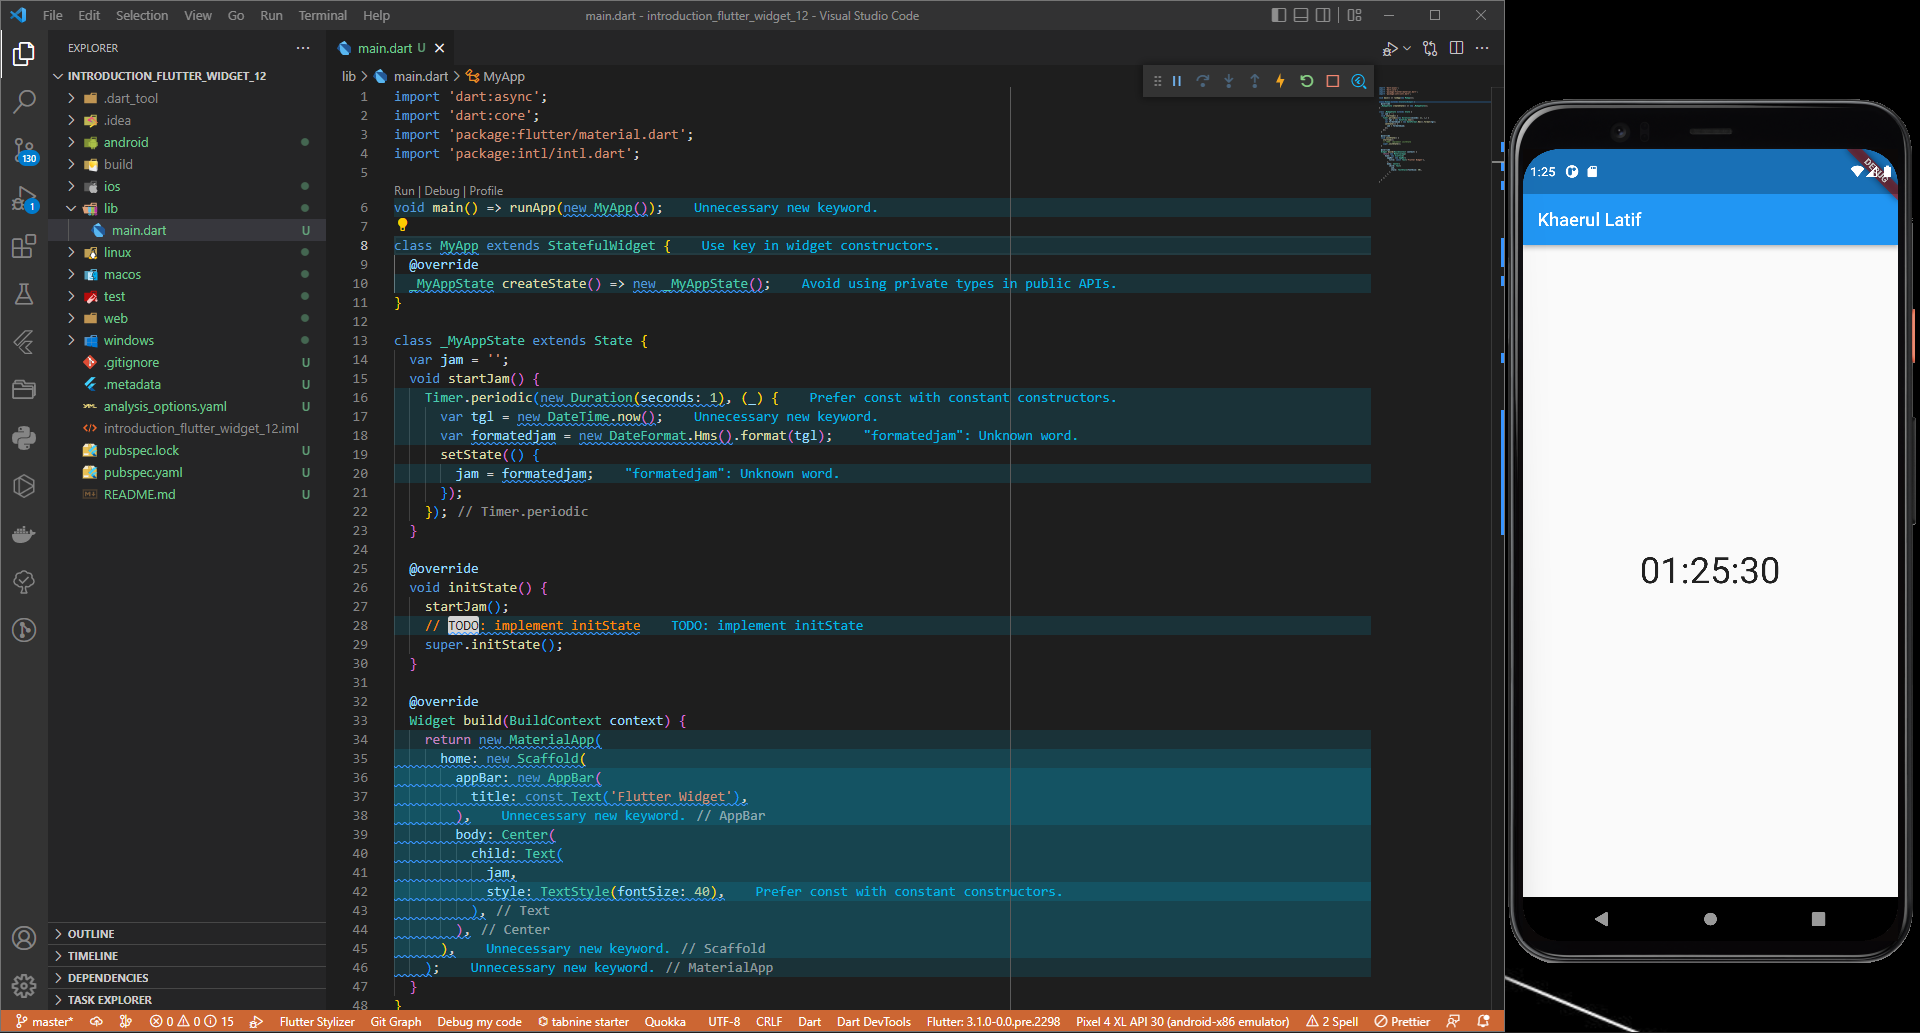
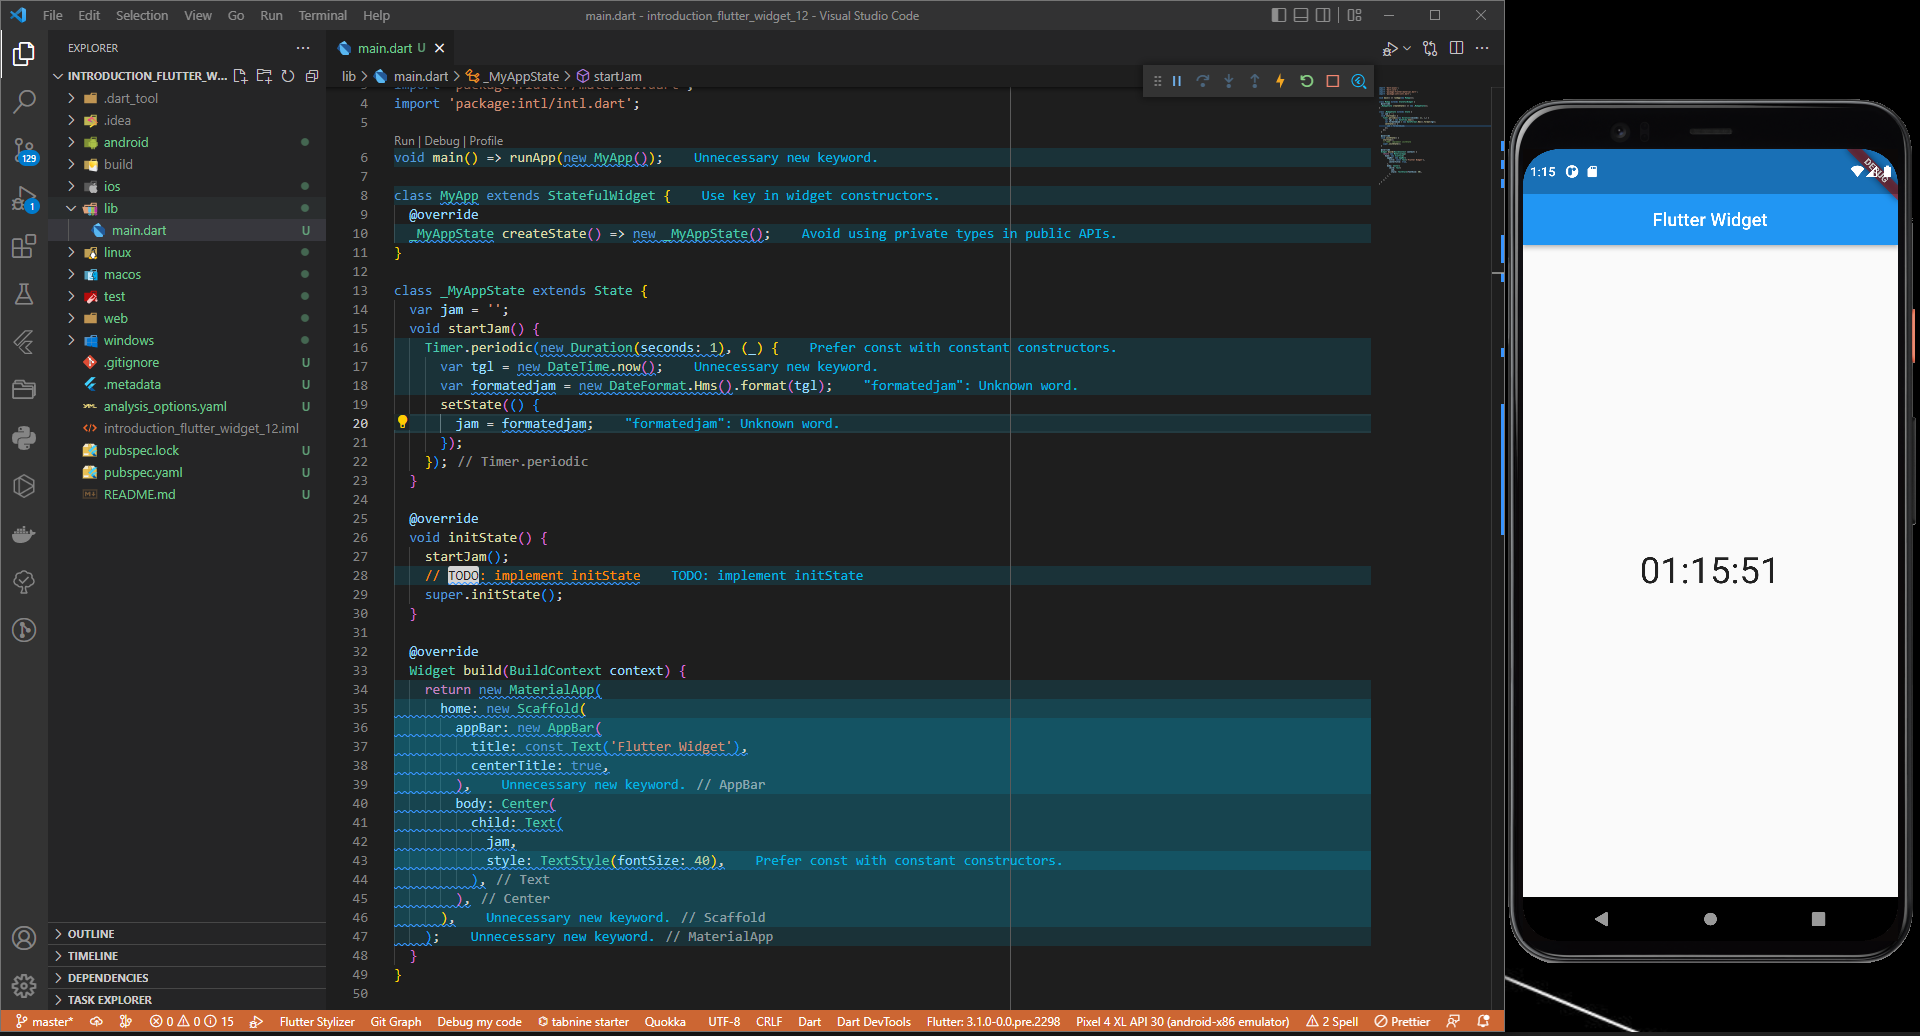
input assignment session 12

diff --git a/12_Introduction Flutter Widget/praktikum/tasks/introduction_flutter_widget_12/lib/main.dart b/12_Introduction Flutter Widget/praktikum/tasks/introduction_flutter_widget_12/lib/main.dart
@@ -34,7 +34,7 @@ class _MyAppState extends State {
     return new MaterialApp(
       home: new Scaffold(
         appBar: new AppBar(
-          title: const Text('Flutter Widget'),
+          title: const Text('Flutter Widget')
         ),
         body: Center(
           child: Text(

diff --git a/12_Introduction Flutter Widget/praktikum/readme.md.md b/12_Introduction Flutter Widget/praktikum/readme.md.md
@@ -1,28 +1,47 @@
-# (09) Collection
+# (12) Introduction Flutter Widget
 ## Data diri 
 Nomor Peserta  : 1_013FLB_50  <br />
 Nama : Khaerul Latif
 
 ## Summary 
-Section 9 ini saya belajar tentang Collection, diantaranya:
-1. List digunakan untuk menyimpan banyak data. Data pada List disusun secara berurutan dan diakses menggunakan index.
-2. Set digunakan untuk menyimpan banyak data secara unik, tidak ada duplikasi, tidak berurutan, dan tidak diindeks.
-3. Map menyimpan banyak data dengan format pasangan key-value
+Section 12 ini saya belajar tentang Introduction Flutter Widget, diantaranya:
+1. Flutter adalah framework yang di buat oleh google untuk mengembangkan antarmuka pengguna dalam membuat aplikasi mobile,desktop dan web
+2. Widget adalah komponen untuk membentuk antarmuka / UI aplikasi, bisa di katakan sebagai blueprint 
+3. Built in widget adalah widget yang dapat langsung digunakan / widget bawaan dari flutter itu sendiri
 
 ## Task
 ### Task 01
-1. Membuat sebuah fungsi dengan spesifikasi berikut:
-- menerima 2 parameter, yaitu list data dan pengali, 
-- lakukan perulangan pada list data secara asynchronous, 
-- tiap perulangan, kalikan elemen list data dengan pengali, 
-- return list baru yang berisi hasil proses di atas.
-
-![imgTask01](screenshoot/task01.png)
+Membuat statefull widget yang kontennya dapat berubah tiap detik.
+```dart
+void startJam() {
+    Timer.periodic(new Duration(seconds: 1), (_) {
+      var tgl = new DateTime.now();
+      var formatedjam = new DateFormat.Hms().format(tgl);
+      setState(() {
+        jam = formatedjam;
+      });
+    });
+  }
+```
 
 ### Task 02
-2. Membuat sebuah list dengan spesifikasi berikut & Membuat sebuah Map dengan menggunakan list tersebut!:
-- tiap element-nya berupa list juga, 
-- tiap element wajib terdapat 2 data (sub-element). 
+Memisahkan menjadi beberapa widget tanpa mengubah tampilannya. 
 
-![imgTask02](screenshoot/task02.png)
-
+```dart
+@override
+  Widget build(BuildContext context) {
+    return new MaterialApp(
+      home: new Scaffold(
+        appBar: new AppBar(
+          title: const Text('Flutter Widget'),
+        ),
+        body: Center(
+          child: Text(
+            jam,
+            style: TextStyle(fontSize: 40),
+          ),
+        ),
+      ),
+    );
+  }
+```

diff --git a/12_Introduction Flutter Widget/summary.md b/12_Introduction Flutter Widget/summary.md
@@ -1,28 +1,47 @@
-# (09) Collection
+# (12) Introduction Flutter Widget
 ## Data diri 
 Nomor Peserta  : 1_013FLB_50  <br />
 Nama : Khaerul Latif
 
 ## Summary 
-Section 9 ini saya belajar tentang Collection, diantaranya:
-1. List digunakan untuk menyimpan banyak data. Data pada List disusun secara berurutan dan diakses menggunakan index.
-2. Set digunakan untuk menyimpan banyak data secara unik, tidak ada duplikasi, tidak berurutan, dan tidak diindeks.
-3. Map menyimpan banyak data dengan format pasangan key-value
+Section 12 ini saya belajar tentang Introduction Flutter Widget, diantaranya:
+1. Flutter adalah framework yang di buat oleh google untuk mengembangkan antarmuka pengguna dalam membuat aplikasi mobile,desktop dan web
+2. Widget adalah komponen untuk membentuk antarmuka / UI aplikasi, bisa di katakan sebagai blueprint 
+3. Built in widget adalah widget yang dapat langsung digunakan / widget bawaan dari flutter itu sendiri
 
 ## Task
 ### Task 01
-1. Membuat sebuah fungsi dengan spesifikasi berikut:
-- menerima 2 parameter, yaitu list data dan pengali, 
-- lakukan perulangan pada list data secara asynchronous, 
-- tiap perulangan, kalikan elemen list data dengan pengali, 
-- return list baru yang berisi hasil proses di atas.
-
-![imgTask01](screenshoot/task01.png)
+Membuat statefull widget yang kontennya dapat berubah tiap detik.
+```dart
+void startJam() {
+    Timer.periodic(new Duration(seconds: 1), (_) {
+      var tgl = new DateTime.now();
+      var formatedjam = new DateFormat.Hms().format(tgl);
+      setState(() {
+        jam = formatedjam;
+      });
+    });
+  }
+```
 
 ### Task 02
-2. Membuat sebuah list dengan spesifikasi berikut & Membuat sebuah Map dengan menggunakan list tersebut!:
-- tiap element-nya berupa list juga, 
-- tiap element wajib terdapat 2 data (sub-element). 
+Memisahkan menjadi beberapa widget tanpa mengubah tampilannya. 
 
-![imgTask02](screenshoot/task02.png)
-
+```dart
+@override
+  Widget build(BuildContext context) {
+    return new MaterialApp(
+      home: new Scaffold(
+        appBar: new AppBar(
+          title: const Text('Flutter Widget'),
+        ),
+        body: Center(
+          child: Text(
+            jam,
+            style: TextStyle(fontSize: 40),
+          ),
+        ),
+      ),
+    );
+  }
+```

diff --git a/12_Introduction Flutter Widget/readme.md b/12_Introduction Flutter Widget/readme.md
@@ -1,1 +1,47 @@
-## Data diri
+# (12) Introduction Flutter Widget
+## Data diri 
+Nomor Peserta  : 1_013FLB_50  <br />
+Nama : Khaerul Latif
+
+## Summary 
+Section 12 ini saya belajar tentang Introduction Flutter Widget, diantaranya:
+1. Flutter adalah framework yang di buat oleh google untuk mengembangkan antarmuka pengguna dalam membuat aplikasi mobile,desktop dan web
+2. Widget adalah komponen untuk membentuk antarmuka / UI aplikasi, bisa di katakan sebagai blueprint 
+3. Built in widget adalah widget yang dapat langsung digunakan / widget bawaan dari flutter itu sendiri
+
+## Task
+### Task 01
+Membuat statefull widget yang kontennya dapat berubah tiap detik.
+```dart
+void startJam() {
+    Timer.periodic(new Duration(seconds: 1), (_) {
+      var tgl = new DateTime.now();
+      var formatedjam = new DateFormat.Hms().format(tgl);
+      setState(() {
+        jam = formatedjam;
+      });
+    });
+  }
+```
+
+### Task 02
+Memisahkan menjadi beberapa widget tanpa mengubah tampilannya. 
+
+```dart
+@override
+  Widget build(BuildContext context) {
+    return new MaterialApp(
+      home: new Scaffold(
+        appBar: new AppBar(
+          title: const Text('Flutter Widget'),
+        ),
+        body: Center(
+          child: Text(
+            jam,
+            style: TextStyle(fontSize: 40),
+          ),
+        ),
+      ),
+    );
+  }
+```
